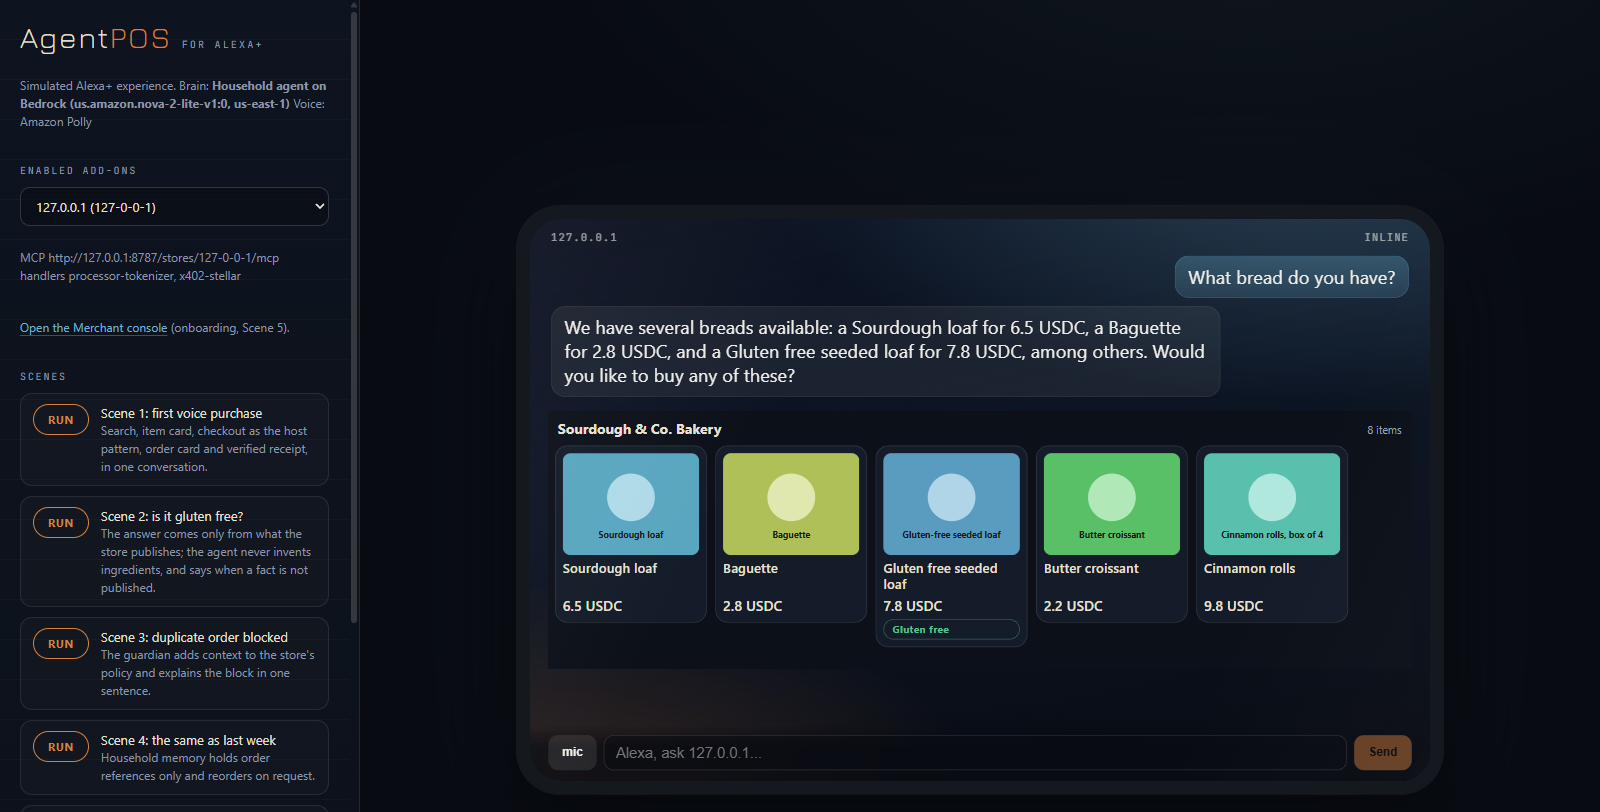
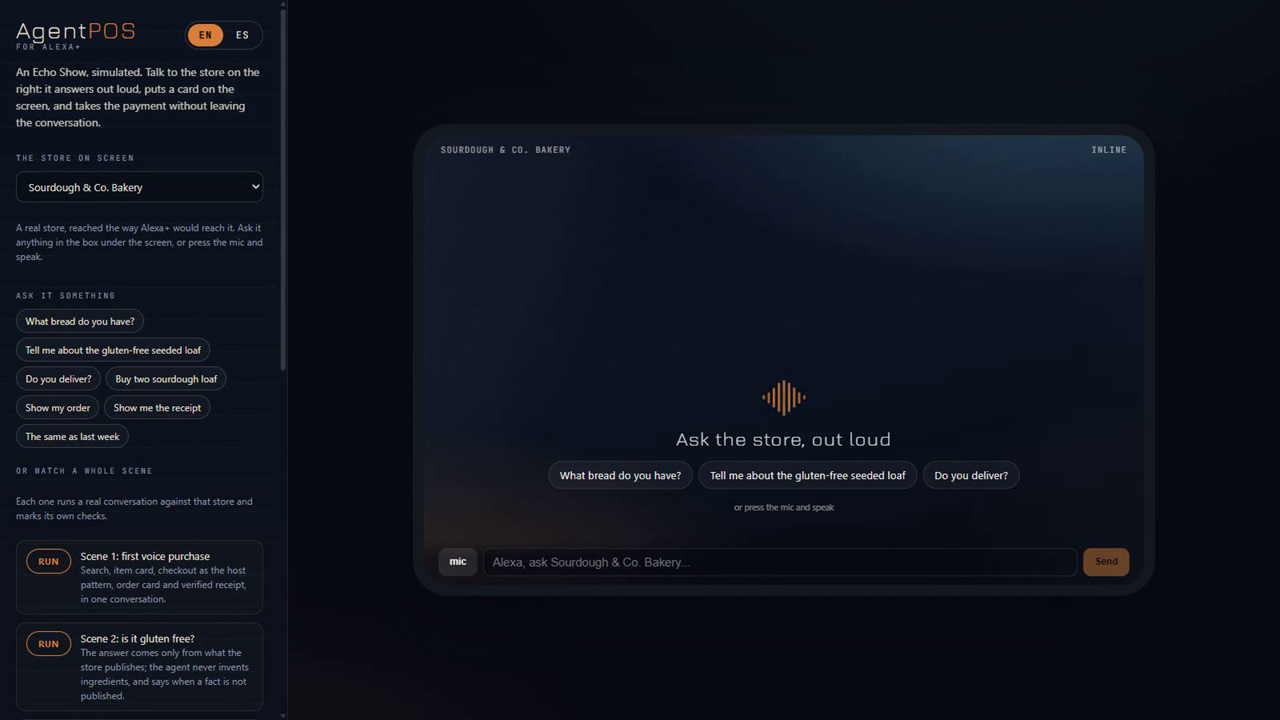
docs(submission): everything the upload needs, and pictures from the new film
- docs/assets holds seven frames of the 2026-09-21 film, replacing the stills of
  the previous one: the carousel, the checkout, the guardian and the order, the
  cart, the household's history, the Spanish switch and the merchant console.
  The README shows them and says where they came from.
- docs/SUBMISSION.md gains an "Uploading the video" section: the file, the
  thumbnail, the title, the description with real chapter times and the tags,
  ready to paste, and what to update afterwards.
- The project description now says what the product gained: one cart per store,
  a reload that keeps the purchase, the household's own spending answered by the
  host, and the whole surface in English or Spanish.
- FL-007 records what the shoot showed about Bedrock latency: the same draft
  answered in 15 s and in 126 s, with no throttling error either time.
- The evidence pack carries the new screens.

diff --git a/docs/SUBMISSION.md b/docs/SUBMISSION.md
@@ -65,6 +65,15 @@ Amazon Bedrock AgentCore Memory and holds order references only. Every model cal
 tokens, latency, model and cost in `usage_events`: a closed checkout session costs
 US$0.0021 in inference, measured over five sessions (`docs/COSTS.md`).
 
+**What a household actually gets.** One cart per store: naming a second item joins the
+session that is open, the store re-quotes the whole cart, and one payment closes it. A
+reloaded browser finds its purchase where it left it, because the session lives in the bridge
+for six hours. And the household can ask about itself: "how much have I spent this month"
+is answered by the host from sessions that settled, with its own card, because the store
+answers about its catalog and the host answers about you. The whole surface, interface,
+assistant, cards and scenes, switches between English and Spanish with one control, and opens
+in the visitor's own language.
+
 **Try it:** https://alexa.agentposhq.com/ (merchant console at `/#/merchant`).
 
 **The simulated Alexa+ experience.** Amazon's tooling is available to partners only, so the
@@ -107,7 +116,7 @@ Replay the sequence with `pnpm demo:run <simulator url>`.
 | 2:20 | Impact | Three real stores, the public playground's third-party purchase counter, US$0.0021 per closed session from usage_events. |
 | 2:40 | Close | Repo, Apache-2.0, the UCP proposal, the friction log. |
 
-## Evidence on file (2026-09-17)
+## Evidence on file (2026-09-21)
 
 `pnpm submission:bundle` gathers all of it into one zip for the form's file upload: the costs
 and the raw rows behind them, the AWS integration with file paths, the friction log, the
@@ -116,13 +125,65 @@ repository.
 
 | Claim | Where it is verifiable |
 | --- | --- |
-| Demo video, recorded against the live deployment | https://youtu.be/MOxcz6SIt6c |
+| Demo video, filmed against the live deployment, 2 min 17 s | `.data/video/agentpos-alexa-demo.mp4`, upload pending (the published https://youtu.be/MOxcz6SIt6c is the older cut) |
 | Hosted playground, five Scenes green | https://alexa.agentposhq.com/ |
 | The merchant's own Stripe charges the card, in test mode | `pi_3UGkN5375U7THQYH0sTSjSMZ` (public), `pi_3UGjrV375U7THQYH1WeScCOB` (by voice), Stripe test dashboard |
 | Cost per closed checkout session: US$0.0021 | `docs/COSTS.md`, `docs/impact/usage-events.csv` (63 rows) |
 | Onboarding: URL to first voice purchase | 28 s on the fixture Store, from `usage_events` stage rows |
 | Household memory on AgentCore Memory | memory `agentpos_alexa_household` in us-east-1, Scene 4 |
+| One cart per store, and a reload that keeps it | `apps/simulator/src/server/checkout.ts`, test in `app.test.ts` |
+| The household's own spending, answered by the host | `packages/bridge/src/checkout/household.ts`, `GET`-free by design, tests in `household.test.ts` |
+| English and Spanish across the whole surface | `apps/simulator/web/src/i18n.ts`, `packages/bridge/apps/shared/strings.ts` |
 | Twelve friction entries | `docs/FRICTION-LOG.md` |
+
+## Uploading the video
+
+The file is `.data/video/agentpos-alexa-demo.mp4` (2 min 17 s, 1920 by 1080, 9 MB) and a copy
+sits on the desktop. Thumbnail: `docs/assets/youtube-thumbnail.png` (1280 by 720).
+
+Title:
+
+```
+AgentPOS for Alexa+: buy from the corner store, by voice
+```
+
+Description, to paste as it is:
+
+```
+Alexa+ for Builders is built for Priceline. This is for the corner store.
+
+AgentPOS for Alexa+ is the add-on a small store can afford: it sits in front of any AgentPOS
+store and speaks the Alexa+ contract, MCP for the catalogue and UCP checkout sessions for the
+payment. The store stays the merchant of record, and the bridge never holds a key or a cent.
+
+Filmed against the live playground, nothing staged:
+0:06 A store answering over MCP, in its own published words
+0:19 A baker onboards her store: an agent drafts how each item should sound, she confirms
+0:29 Buying as a conversation, with the checkout as the host's pattern
+0:40 Her own Stripe charges the card in test mode; the Amazon wallet handlers are simulated and labeled
+0:49 A guardian checks before the money moves, and the household decides
+1:09 One cart, item by item
+1:28 Memory: the same as last week, from order references only, on AgentCore Memory
+1:39 What this household has spent here this month, answered by the host
+1:51 One switch, and the whole thing speaks Spanish
+
+Try it: https://alexa.agentposhq.com
+Merchant console: https://alexa.agentposhq.com/#/merchant
+Code, Apache-2.0: https://github.com/NovaCorpAI/agentpos-alexa
+
+Built on Amazon Bedrock (Nova 2 Lite, Claude Sonnet 4.6), Bedrock AgentCore Memory, Amazon
+Polly, Amazon ECS Express Mode, Amazon ECR and AWS CodeBuild, with the Strands Agents SDK and
+the Model Context Protocol TypeScript SDK. A closed checkout session costs US$0.0021 in
+inference, measured, with every model call recorded.
+
+Built in Chile by NovaCorp AI.
+```
+
+Tags: `alexa`, `alexa plus`, `mcp`, `model context protocol`, `amazon bedrock`, `agentcore`,
+`ucp`, `checkout`, `voice commerce`, `small business`, `strands agents`, `aws`.
+
+After uploading: replace the link in the Devpost form's video field, in this file's evidence
+table, and in `docs/VIDEO.md`.
 
 ## Product feedback (required field)
 

diff --git a/README.md b/README.md
@@ -183,15 +183,22 @@ otherwise), the checkout stays open with the same quote, and the button reads "Y
 again". Scene 3 plays exactly that. The rule is deterministic and runs first; the model only
 words the question, and the guardian never sees the buyer's email, only a hash.
 
-![The simulator rendering the bridge's carousel view inside an Echo Show frame](docs/assets/simulator-carousel.png)
+Every picture below is a frame of the demo video, filmed against the hosted playground on
+2026-09-21 with the real Household agent on Amazon Bedrock and Amazon Polly speaking.
+
+![The bridge's carousel view inside an Echo Show frame, prices exactly as the store publishes them](docs/assets/simulator-carousel.png)
 
 ![The host's checkout pattern: the store's own Stripe in test mode chosen, the simulated Amazon handlers labeled below it](docs/assets/simulator-checkout.png)
 
-Scene 1 on the real Household agent (Amazon Bedrock, Nova 2 Lite) with Amazon Polly speaking:
+![The guardian asking before the money moves, and the order card once the household says yes](docs/assets/simulator-guardian-and-order.png)
 
-![Scene 1: the agent starts the checkout and the host renders it](docs/assets/scene1-checkout-agent.png)
+![One cart, item by item: a second item joins the session instead of opening another](docs/assets/simulator-cart.png)
 
-![Scene 1: the receipt card with honest badges: fixture receipt, simulated payment](docs/assets/scene1-receipt.png)
+![What this household has spent at this store this month, answered by the host](docs/assets/simulator-history.png)
+
+![One switch, and the interface, the assistant and the cards all speak Spanish](docs/assets/simulator-spanish.png)
+
+![The merchant console: four steps from a store address to a voice-ready catalog](docs/assets/merchant-console.png)
 
 ## Principles we do not bend
 

diff --git a/docs/FRICTION-LOG.md b/docs/FRICTION-LOG.md
@@ -174,6 +174,9 @@ everything we used, not only what hurt.
   and our simulator reported it as "I could not reach the store", which sent us looking at the
   Bridge first. Nothing in the console's model page shows the account's effective per-minute
   quota for a cross-region inference profile.
+- Also seen on 2026-09-21: the same draft of eight items, on Claude Sonnet 4.6 through the
+  same account, answered in 15 s one run and 126 s the next, with no throttling error and no
+  way to see from the API which of the two to expect.
 - Severity: Medium
 - Time lost: about 25 min
 - Workaround: pace the measurement (8 s between turns, 30 s back-off on throttling); the
